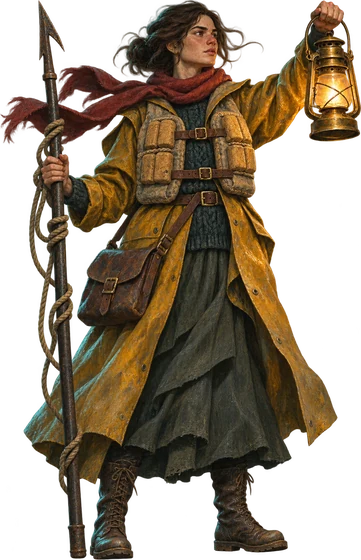
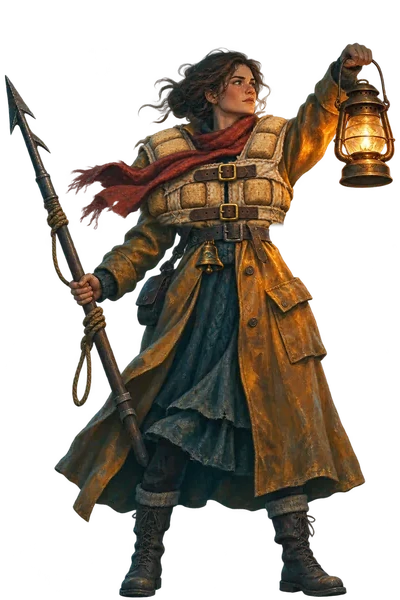
v0.24.1: Wren the same size in every picture, her Tide-Bell on her belt, clearer coats
All six Wren pictures share a 400x600 canvas at one scale; the boxes that show
her overflow upward into the empty top (--wren-tall). The Cork Vest, Shell
Gorget and carried dress are masked Codex edits of plain Wren, so her face,
pose, lantern and bell stay the same. tools/wren-art.py makes and places them.

diff --git a/style.css b/style.css
@@ -1,5 +1,8 @@
 /* Brinelight — styles */
 :root {
+  /* Wren's pictures share a 400x600 canvas whose top 40 px are empty (room for the diving helmet). Each box that
+     shows her is sized for the 560 px below that, and the picture overflows it upward (tools/wren-art.py). */
+  --wren-tall: 1.0714;
   --ink: #050f18;
   --deep: #0a1d2b;
   --sea: #123548;
@@ -256,7 +259,7 @@ h1, h2, h3 { font-family: var(--serif); font-weight: 700; margin: 0; }
 .enemy .sprite img { width: 100%; height: 100%; animation: bob 3.4s ease-in-out infinite; animation-delay: var(--delay, 0s); }
 .enemy.flying .sprite { margin-bottom: 10cqh; }
 .player .sprite { height: 50cqh; width: min(30cqw, 38cqh); }
-.player .sprite img { width: 100%; height: 100%; animation: breathe 4s ease-in-out infinite; }
+.player .sprite img { width: 100%; height: calc(100% * var(--wren-tall)); pointer-events: none; animation: breathe 4s ease-in-out infinite; }
 @container field (max-aspect-ratio: 1/1) {
   .enemy .sprite { height: calc(30cqh * var(--scale, 1)); max-height: 42cqh; width: min(calc(30cqh * var(--scale, 1)), 100%); }
   .enemy { flex: 0 1 calc(30cqh * var(--scale, 1)); max-width: 48cqw; }
@@ -1005,8 +1008,8 @@ button.unlock-box:hover, button.unlock-box:focus-visible { border-color: #e9d5ff
 /* The kit view (Workshop and Pack): Wren with a slot for each place around her, lines to where each piece sits,
    and a tray with every piece for the chosen slot. On a phone the slots stand in one column beside her, no lines. */
 .doll { position: relative; display: grid; grid-template-columns: 1fr auto 1fr; grid-template-areas: 'left wren right'; align-items: center; gap: 0 22px; margin: 2px 0 12px; }
-.doll-wren { grid-area: wren; width: clamp(150px, 26vw, 220px); height: clamp(220px, 40vh, 320px); }
-.doll-wren img { width: 100%; height: 100%; object-fit: contain; object-position: 50% 100%; filter: drop-shadow(0 10px 14px rgba(0, 0, 0, .6)); }
+.doll-wren { grid-area: wren; width: clamp(150px, 26vw, 220px); height: clamp(220px, 40vh, 320px); display: flex; align-items: flex-end; }
+.doll-wren img { width: 100%; height: calc(100% * var(--wren-tall)); pointer-events: none; object-fit: contain; object-position: 50% 100%; filter: drop-shadow(0 10px 14px rgba(0, 0, 0, .6)); }
 .doll-side { display: flex; flex-direction: column; gap: 18px; position: relative; z-index: 2; }
 .doll-side.left { grid-area: left; align-items: flex-end; }
 .doll-side.right { grid-area: right; align-items: flex-start; }
@@ -1137,7 +1140,7 @@ img.salv { width: 20px; height: 20px; object-fit: contain; flex: 0 0 auto; }
 .opening { position: absolute; inset: 0; display: flex; flex-direction: column; justify-content: flex-end; align-items: center; overflow: hidden; background: #040c13; }
 .op-art { position: absolute; inset: 0; background-size: cover; background-repeat: no-repeat; background-position: var(--pos); transform-origin: var(--pos); transform: scale(var(--z, 1)); animation: opDrift 14s ease-out both; }
 @media (min-aspect-ratio: 1/1) { .op-art { --z: var(--wz, 1); background-position: var(--wpos); transform-origin: var(--wpos); } }
-.op-fig { position: relative; height: min(46vh, 400px); margin-bottom: -18px; filter: drop-shadow(0 8px 18px rgba(0, 0, 0, .7)); animation: opIn .7s ease both; }
+.op-fig { position: relative; height: calc(min(46vh, 400px) * var(--wren-tall)); margin-bottom: -18px; filter: drop-shadow(0 8px 18px rgba(0, 0, 0, .7)); animation: opIn .7s ease both; }
 .op-inner { position: relative; width: 100%; padding: 64px 20px 18px; background: linear-gradient(180deg, rgba(4, 12, 19, 0), rgba(4, 12, 19, .9) 42%, rgba(4, 12, 19, .97)); display: flex; flex-direction: column; align-items: center; gap: 14px; }
 .op-text { margin: 0; max-width: 34em; font-family: var(--serif); font-size: clamp(17px, 2.3vw, 22px); line-height: 1.55; color: #eef6f3; text-align: center; text-shadow: 0 2px 8px #000; animation: opIn .7s ease both; }
 .op-foot { display: flex; align-items: center; justify-content: center; gap: 12px; flex-wrap: wrap; width: min(34em, 100%); }
@@ -1148,7 +1151,7 @@ img.salv { width: 20px; height: 20px; object-fit: contain; flex: 0 0 auto; }
 @keyframes opIn { from { opacity: 0; transform: translateY(8px); } to { opacity: 1; transform: none; } }
 @keyframes opDrift { from { transform: scale(calc(var(--z, 1) * 1.08)); } to { transform: scale(var(--z, 1)); } }
 @media (max-height: 500px) {
-  .op-fig { height: 50vh; margin-bottom: -14px; }
+  .op-fig { height: calc(50vh * var(--wren-tall)); margin-bottom: -14px; }
   .op-inner { padding: 36px 20px 10px; gap: 8px; }
   .op-text { font-size: 16px; line-height: 1.45; max-width: 44em; }
   .op-foot { width: min(44em, 100%); }

diff --git a/js/data.js b/js/data.js
@@ -1075,20 +1075,19 @@
   BL.META_TEXT = { currency: 'Salvage', shop: 'Workshop', item: 'Kit' };
   /* Where kit goes. The Bell always holds a bell; the others can be empty (`none` names the empty slot).
      The kit screens show Wren with a slot for each place: `side` is the side of her picture the slot sits on,
-     and `at` is where its line points on her picture (fractions of its width and height, from the top left;
-     BL.WREN_POINTS can move a point for one picture). A new place needs these and a glyph in ui.js (ICON.slot_<id>). */
+     and `at` is where its line points on her picture (fractions of its width and height, from the top left).
+     Her pictures share one canvas (tools/wren-art.py), so one point fits them all; BL.WREN_POINTS moves a point
+     for a picture where the coat covers it. A new place needs these and a glyph in ui.js (ICON.slot_<id>). */
   BL.KIT_PLACES = [
-    { id: 'harpoon', name: 'Harpoon', desc: 'Your weapon. It changes your Harpoon Jabs.', none: 'Plain harpoon', side: 'left', at: [0.16, 0.31] },
-    { id: 'bell', name: 'Bell', desc: 'Your Tide-Bell. It decides what you get when you Crest or Strand.', side: 'right', at: [0.55, 0.37] },
-    { id: 'coat', name: 'Coat', desc: 'What you wear over your oilskin.', none: 'Just the oilskin', side: 'right', at: [0.66, 0.24] },
-    { id: 'pocket', name: 'Pocket', desc: 'Coins and tokens.', none: 'Empty', side: 'right', at: [0.75, 0.48] },
-    { id: 'ditty', name: 'Ditty Bag', desc: 'Small tools and supplies.', none: 'Empty', side: 'left', at: [0.36, 0.49] },
+    { id: 'harpoon', name: 'Harpoon', desc: 'Your weapon. It changes your Harpoon Jabs.', none: 'Plain harpoon', side: 'left', at: [0.2, 0.48] },
+    { id: 'bell', name: 'Bell', desc: 'Your Tide-Bell. It decides what you get when you Crest or Strand.', side: 'right', at: [0.52, 0.42] },
+    { id: 'coat', name: 'Coat', desc: 'What you wear over your oilskin.', none: 'Just the oilskin', side: 'right', at: [0.66, 0.29] },
+    { id: 'pocket', name: 'Pocket', desc: 'Coins and tokens.', none: 'Empty', side: 'right', at: [0.75, 0.515] },
+    { id: 'ditty', name: 'Ditty Bag', desc: 'Small tools and supplies.', none: 'Empty', side: 'left', at: [0.37, 0.49] },
   ];
-  /* Per-picture corrections to the slot points above, for a Wren picture whose pose differs: { picture: { place: [x, y] } }. */
+  /* Per-picture corrections to the slot points above, where a coat covers a point: { picture: { place: [x, y] } }. */
   BL.WREN_POINTS = {
-    keeper: { harpoon: [0.2, 0.44], ditty: [0.37, 0.45] }, // the first picture holds the harpoon lower
-    keeper_gorget: { coat: [0.43, 0.23], ditty: [0.31, 0.5] }, // the gorget, at her throat
-    keeper_packed: { coat: [0.8, 0.3], pocket: [0.76, 0.66] }, // the dress rolled on her back; the helmet covers the coat pocket
+    keeper_packed: { coat: [0.84, 0.38], pocket: [0.625, 0.525] }, // the dress rolled on her back; the helmet covers the coat pocket
   };
   /* A coat's `look` is Wren's picture (img/units) on the open-air levels and on the kit screens; `lookUnder` is
      her picture in the Belfry. A coat without them shows plain Wren (keeper, and keeper_suit underwater). */

diff --git a/js/version.js b/js/version.js
@@ -5,8 +5,13 @@
 (function () {
   'use strict';
   const BL = (globalThis.BL = globalThis.BL || {});
-  BL.VERSION = '0.24.0';
+  BL.VERSION = '0.24.1';
   BL.CHANGELOG = [
+    { v: '0.24.1', date: '2026-11-14', items: [
+      'Wren is the same size in every picture. Before, she grew or shrank a little with her coat, and most of all in the Belfry\'s diving dresses.',
+      'She carries her Tide-Bell on her belt, so the Bell line on the kit screens points at it.',
+      'The coats are easier to tell apart: the Cork Vest is bulkier, the Shell Gorget is a wide collar of shells over her shoulders, and the rolled diving dress and its helmet are bigger. Her face and pose stay the same whatever she wears.',
+    ] },
     { v: '0.24.0', date: '2026-11-14', items: [
       'The Workshop and Pack for the expedition now show Wren with a slot for each place: Harpoon, Bell, Coat, Pocket and Ditty Bag. Choose a slot to see every piece of kit for it, what you own, what is for sale and what is still locked. An empty slot shows as empty.',
       'You can wear kit from the Workshop, and buy it while packing.',

diff --git a/tools/wren-art.py b/tools/wren-art.py
@@ -1,0 +1,97 @@
+#!/usr/bin/env python3
+"""Wren's pictures (img/units/keeper*.webp) all share one canvas, so she is the same size in every one of them.
+
+The canvas is 400x600 (2:3). Her boot soles are on row 596 and her face is centred at x 227. Eye level to sole is
+513 px. The top 40 px are empty except in the Belfry pictures, where the diving helmet reaches into them. The fight
+and the kit screens draw the picture 600/560 times the height of its box, so the empty top runs over the box and
+her body fills it (style.css, --wren-tall).
+
+Plain Wren (keeper.webp) is the master. A new coat is an edit of her, so her face, pose, lantern, harpoon and bell
+stay the same:
+  1. python3 tools/wren-art.py input OUT.png
+     makes a 1024x1536 copy of the master to attach to the image generator's edit (exact 2.56x scale).
+  2. Ask Codex's built-in image tool to edit it. Change only the coat area and keep everything else identical
+     (see the prompts in assets-src/wanted-images.tsv). It repaints the whole picture slightly but keeps it aligned.
+  3. python3 tools/wren-art.py compose EDIT.png --allow "x,y x,y ..." [--allow ...] --out img/units/keeper_NAME.webp
+     pastes back only what changed inside the --allow polygons (canvas pixels), so everything else stays the
+     master's own pixels. --preview P.png saves the mask over Wren, so you can check it.
+A whole new picture (a new diving dress) can't be an edit. Put it on the canvas at Wren's scale with:
+  python3 tools/wren-art.py place SRC.png --eye Y --head X --out img/units/keeper_NAME.webp
+  where Y is her eye level and X the centre of her face (or helmet) in SRC pixels. The lowest opaque row counts as
+  her soles."""
+import sys
+import numpy as np
+from PIL import Image, ImageDraw, ImageFilter
+
+W, H, SOLE, HEAD_X, EYE_TO_SOLE = 400, 600, 596, 227, 513
+MASTER = 'img/units/keeper.webp'
+EDIT_SIZE = (1024, 1536)
+
+
+def arg(args, name, default=None, many=False):
+    vals = [args[i + 1] for i, a in enumerate(args) if a == name]
+    return vals if many else (vals[-1] if vals else default)
+
+
+def save(im, out):
+    if out.endswith('.webp'): im.save(out, 'WEBP', quality=90, method=6)
+    else: im.save(out)
+    print(out)
+
+
+def make_input(out):
+    save(Image.open(MASTER).convert('RGBA').resize(EDIT_SIZE, Image.LANCZOS), out)
+
+
+def compose(edit_p, polys, out, preview=None):
+    base = Image.open(MASTER).convert('RGBA')
+    edit = Image.open(edit_p).convert('RGBA').resize((W, H), Image.LANCZOS)
+    A, E = np.asarray(base).astype(float), np.asarray(edit).astype(float)
+    prem = lambda X: X[..., :3] * (X[..., 3:4] / 255)
+    d = np.abs(prem(A) - prem(E)).mean(-1) + np.abs(A[..., 3] - E[..., 3]) * 0.5
+    m = Image.fromarray((d > 34).astype(np.uint8) * 255)
+    # close small gaps, drop specks, grow a little so the new item's edges are covered
+    m = m.filter(ImageFilter.MaxFilter(7)).filter(ImageFilter.MinFilter(7))
+    m = m.filter(ImageFilter.MinFilter(3)).filter(ImageFilter.MaxFilter(3)).filter(ImageFilter.MaxFilter(5))
+    allowed = Image.new('L', (W, H), 0)
+    for p in polys:
+        ImageDraw.Draw(allowed).polygon([tuple(float(v) for v in xy.split(',')) for xy in p.split()], fill=255)
+    m = np.minimum(np.asarray(m), np.asarray(allowed))
+    holes = Image.fromarray(255 - m).copy()  # fill holes: whatever the changed area encloses counts as changed
+    ImageDraw.floodfill(holes, (0, 0), 0)
+    m = Image.fromarray(np.maximum(m, np.asarray(holes))).filter(ImageFilter.GaussianBlur(1.6))
+    res = base.copy()
+    res.paste(edit, (0, 0), m)
+    save(res, out)
+    if preview:
+        pv = base.copy()
+        pv.paste(Image.new('RGBA', (W, H), (255, 0, 80, 255)), (0, 0), m.point(lambda v: v // 2))
+        bg = Image.new('RGBA', (W, H), (40, 60, 70, 255))
+        bg.alpha_composite(pv)
+        save(bg, preview)
+
+
+def place(src_p, eye, head, out):
+    src = Image.open(src_p).convert('RGBA')
+    rows = np.where((np.asarray(src.getchannel('A')) > 128).any(1))[0]
+    sole = rows.max()
+    f = EYE_TO_SOLE / (sole - eye)
+    big = src.resize((round(src.width * f), round(src.height * f)), Image.LANCZOS)
+    left, top = round(HEAD_X - head * f), round(SOLE - sole * f)
+    bbox = big.getchannel('A').point(lambda a: 255 if a > 8 else 0).getbbox()
+    if left + bbox[0] < 0 or top + bbox[1] < 0 or left + bbox[2] > W:
+        print('warning: the picture runs off the canvas', file=sys.stderr)
+    cut = big.crop((max(0, -left), max(0, -top), big.width, big.height))
+    canvas = Image.new('RGBA', (W, H), (0, 0, 0, 0))
+    canvas.alpha_composite(cut.crop((0, 0, min(cut.width, W - max(0, left)), min(cut.height, H - max(0, top)))),
+                           (max(0, left), max(0, top)))
+    save(canvas, out)
+
+
+if __name__ == '__main__':
+    a = sys.argv[1:]
+    if not a or a[0] not in ('input', 'compose', 'place'):
+        sys.exit(__doc__)
+    if a[0] == 'input': make_input(a[1])
+    elif a[0] == 'compose': compose(a[1], arg(a, '--allow', many=True), arg(a, '--out'), arg(a, '--preview'))
+    else: place(a[1], float(arg(a, '--eye')), float(arg(a, '--head')), arg(a, '--out'))

diff --git a/GAME_NOTES.md b/GAME_NOTES.md
@@ -1469,6 +1469,7 @@ At 4, overpacking breaks even on average. A pair that suits the plan pays (Shell
   `tools/screens.js` shoots the dress on the pin as screen 35, the Belfry as screens 40–46, and the Garden Strider as screen 47.
 - `tests/story.test.js`: the title line, the opening, and what opens each Story so far entry. `node tests/ui-smoke.js --only story` runs only the story flow in the browser. `tools/screens.js` also shoots the three Story so far tabs and the opening.
 - `tools/cut-icon.py`: crops a generated icon to its object and saves a 160 px WebP (needs Python with Pillow).
+- `tools/wren-art.py`: Wren's shared 400x600 canvas. `input` makes the 1024x1536 edit input from plain Wren, `compose` pastes back only the changed part of an edit inside the given polygons, and `place` puts a whole new picture on the canvas at her scale (needs Python with Pillow and numpy). See "Art" for how it was used.
 
 ## Determinism and saves
 
@@ -1489,12 +1490,20 @@ At 4, overpacking breaks even on average. A pair that suits the plan pays (Shell
   - The Bellwether is a bronze bell (crack, clapper, golden glow inside, at most a hint of tendrils). The one eye and the arms belong to the Thing, which comes out only when the bronze breaks.
   - The Lost Lamplighter's lantern is cold.
 - Gear icons (v0.7.0): see "The Workshop" above.
-- **Wren's pictures (v0.24.0):** her picture follows her coat (`E.keeperArt`). A coat's `look` is her picture on shore and on the open-air levels; a dress also has `lookUnder` for the Belfry. Pictures: `keeper` (no coat), `keeper_cork`, `keeper_gorget`, `keeper_packed` (a dress carried: helmet at her hip, suit rolled on her back), `keeper_suit` and `keeper_plated` (in the Belfry). **A new coat needs its own picture** (two for a dress), made with the unit preamble from the 2026-11-14 lines of the queue file and the same pose: three-quarter view facing right, harpoon in her right hand, lantern raised in her left. Without one she shows as plain Wren, and the build fails if a named picture is missing. Other places never change her picture: that is deliberate, so a new harpoon, bell or pocket item needs only its icon. Painting Wren in stacked layers was rejected: layers from the image generator don't line up, and the cost grows with items times pictures.
+- **Wren's pictures (v0.24.0):** her picture follows her coat (`E.keeperArt`). A coat's `look` is her picture on shore and on the open-air levels; a dress also has `lookUnder` for the Belfry. Pictures: `keeper` (no coat), `keeper_cork`, `keeper_gorget`, `keeper_packed` (a dress carried: helmet at her hip, suit rolled on her back), `keeper_suit` and `keeper_plated` (in the Belfry). **A new coat needs its own picture** (two for a dress), made as below. Without one she shows as plain Wren, and the build fails if a named picture is missing. Other places never change her picture: that is deliberate, so a new harpoon, bell or pocket item needs only its icon. Painting Wren in stacked layers was rejected: layers from the image generator don't line up, and the cost grows with items times pictures.
+- **One canvas, and coats as edits of plain Wren (v0.24.1, 2026-11-14).** The user saw that Wren changed size between pictures and that the coats looked almost the same. Each picture had been a fresh prompt, trimmed to whatever stuck up highest and scaled to 560 px tall, so her body varied: chin to sole was about 488 px plain, 460 with the dress carried and 445 in the Belfry. Each prompt also redrew her face and pose, and the item came out small (the Shell Gorget was a necklace you couldn't see in a fight).
+  - Every Wren picture is now 400x600, with her soles on row 596, her face centred at x 227 and 513 px from eye level to sole. The top 40 px are empty except for the Belfry helmet. Boxes that show her are still sized for 560 px, and the picture overflows them upward by `--wren-tall` (`style.css`): the fight sprite, the kit view and the opening's fourth picture. One set of `at` points now fits every shore picture. `BL.WREN_POINTS` only moves the Coat and Pocket points on `keeper_packed`, where the roll and the helmet cover them.
+  - Plain Wren (`keeper.webp`) is the master. She now carries the Brass Tide-Bell on her belt, left of the buckle against the dark jumper, where brass reads better than on the ochre coat. It was painted in from the bell's own icon (WORLD.md: the bell hangs at her belt, never in the lantern's hand).
+  - The Cork Vest, the Shell Gorget and the carried dress are edits of the master, made with Codex's built-in image tool, which edits a picture but has no mask. The edit comes back aligned (0 px shift, 1024x1536, real alpha), but Codex repaints everything slightly (mean 6.8/255 outside the item, with visible changes to the lantern and harpoon tip). `tools/wren-art.py compose` pastes back only what changed inside an allowed polygon, so her face, lantern, harpoon and bell are the master's own pixels. The prompts are the 2026-11-14 `edit` lines of the queue file. Two variants were made of the vest and the dress: vest B (the cork blocks read clearly, and the scarf goes behind it) and dress A (the bigger helmet).
+  - The new Shell Gorget is a wide collar of pale shells over her throat and shoulders. The vest is bulkier, and the rolled dress and its copper helmet are bigger and paler. All three still read at fight size (220 px).
+  - The Belfry pictures were placed on the canvas from their originals (`wren-art.py place`) at 1.06 times their old scale, matched on eye level to sole. Her face is now 29-30 px from eye to chin in all six pictures. Her eyes sit 5-7 px lower in the dress, about 1% of her height. That was left as it is: moving them up would push the helmet lamp off the canvas.
+  - Codex's image fallback script takes a real mask, but it bills the `OPENAI_API_KEY` account, and its gpt-image-2 can't make a transparent background. It wasn't used.
+  - Open: the Diving Dress and the Plated Dress still look alike in the Belfry. The Plated Dress could be made as an edit of `keeper_suit`, with larger shell plates on the chest, shoulders and thighs.
 
 ### Kit view (v0.24.0, 2026-11-14)
 
 - The Workshop and Pack for the expedition share one view (`kitDoll` in `js/ui.js`): Wren in the middle, a slot for each place (`BL.KIT_PLACES`) around her, and a tray under her with every piece for the chosen slot. Owned pieces come first (tap to wear, tap again to take off), then those for sale (tap to buy), then locked ones with their achievement.
-- On a wide screen each slot has a line to where the piece sits on her: `side` and `at` on each place in `BL.KIT_PLACES`, with `BL.WREN_POINTS` to correct a point for one picture. On a phone (600px and narrower) the slots stand in one column beside her and there are no lines.
+- On a wide screen each slot has a line to where the piece sits on her: `side` and `at` on each place in `BL.KIT_PLACES`, with `BL.WREN_POINTS` to correct a point for one picture (since v0.24.1 only `keeper_packed` needs that). On a phone (600px and narrower) the slots stand in one column beside her and there are no lines.
 - In the Workshop, a slot with something you can afford shows a small Salvage badge.
 - Changes from before: you can wear kit in the Workshop and buy it while packing; the Pack screen puts the kit first, then keepsakes and currents.
 - A new piece of kit in an existing place needs no screen work. A new place needs `side`, `at`, `none` (the empty slot's name) and an empty-slot glyph (`ICON.slot_<id>` in `js/ui.js`).

diff --git a/WORLD.md b/WORLD.md
@@ -144,8 +144,9 @@ The suit still has to be carried home before it can be worn on a later expeditio
 ## People and creatures
 
 - **In the game:** Wren, the Keeper, is the last lighthouse keeper. She wears an oilskin, a scarf, and boots, and carries a harpoon and an open lantern. In the Belfry she wears the old keeper's diving dress over them (v0.20.0).
-- **In the game (v0.24.0):** Wren's picture follows her coat. The Cork Vest is strapped over her oilskin, and the Shell Gorget hangs at her throat. With a diving dress packed, its helmet hangs at her hip and the canvas suit is rolled on her back until the Belfry, where she wears it; the Plated Dress has shell plates over the chest. She carries her open lantern above the Belfry either way.
+- **In the game (v0.24.0, redrawn in v0.24.1):** Wren's picture follows her coat. The Cork Vest is strapped over her oilskin, and the Shell Gorget is a wide collar of shells over her throat and shoulders. With a diving dress packed, its helmet hangs at her hip and the canvas suit is rolled on her back until the Belfry, where she wears it; the Plated Dress has shell plates over the chest. She carries her open lantern above the Belfry either way.
 - **Agreed:** Wren's control of the water comes from the keeper's craft. Keepers use the Brass Tide-Bell, a hand-bell, to move water in a pool, stair, or cut. The Drowned Bellwether is the same kind of tool, operating across the coast. It is sunk, still ringing, and holding the sea over the Heart.
+- **Agreed (2026-11-14), in the game (v0.24.1):** Wren's tide-bell hangs at her belt, and the kit screens point the Bell place there. The lantern stays in her raised hand. A keeper does not put down the lantern or let it leave her hand, because it holds the last flame lit from the Heart. The bell must not take the lantern's hand in any picture.
 - **In the game:** The Drowned Bellwether is bronze. It rings, swings its clapper, tolls, and pulls the Swell down. At two thirds of its health (half until v0.16.0), it cracks and calls a shoal of Bell Minnows. It was the Shallows' boss until v0.19.0. Since v0.20.0 it hangs in the Belfry, and it does not simply die (since v0.23.0 its picture is a cracked bronze bell on an iron yoke, with a golden glow and its clapper inside and only a few pale tendrils at the rim; the eye and the arms show only when the Thing comes out): when its bronze breaks, **the Thing in the Bell** comes out, with one eye and many arms, and two Grasping Arms with it. The Thing drinks from Wren's lantern through its arms (Doused 1 for each arm), opens its eye (it is Soaked and takes more damage), glares, and grows its arms back. Grasping Arms squeeze the air out of her dress (Breathless).
 - **In the game (v0.20.0):** The Shallows' pin is **the Harbour Hermit**: a hermit crab as big as a rowing boat, wearing Saltmere's old harbour bell for a shell. The bell rang the boats home in fog, until a winter storm tore it off the harbour wall. Now it answers the Bellwether and holds the water over the Shallows' stair. It pulls into the bell, and its Ward stays from turn to turn (In its Bell). A Crest rings the bell around its ears and a Strand leaves it stuck on the rock: either shakes it out. Its Bell Crush hits harder each time. Hurt, it rings the harbour bell, and two Barnacle Mites drop off it to help.
 - **In the game (v0.22.0):** Once Wren has broken the Hermit's bell, the Workshop fishes it out of the Shallows and mends the crack with brass staples. As kit it is the Harbour Bell: it was armour before it was a bell again, so it guards (3 Ward) on every Crest and Strand and draws nothing. Breaking the Tolling Buoy opens the Toggle Iron, a whaler's harpoon head that turns sideways in the wound.
